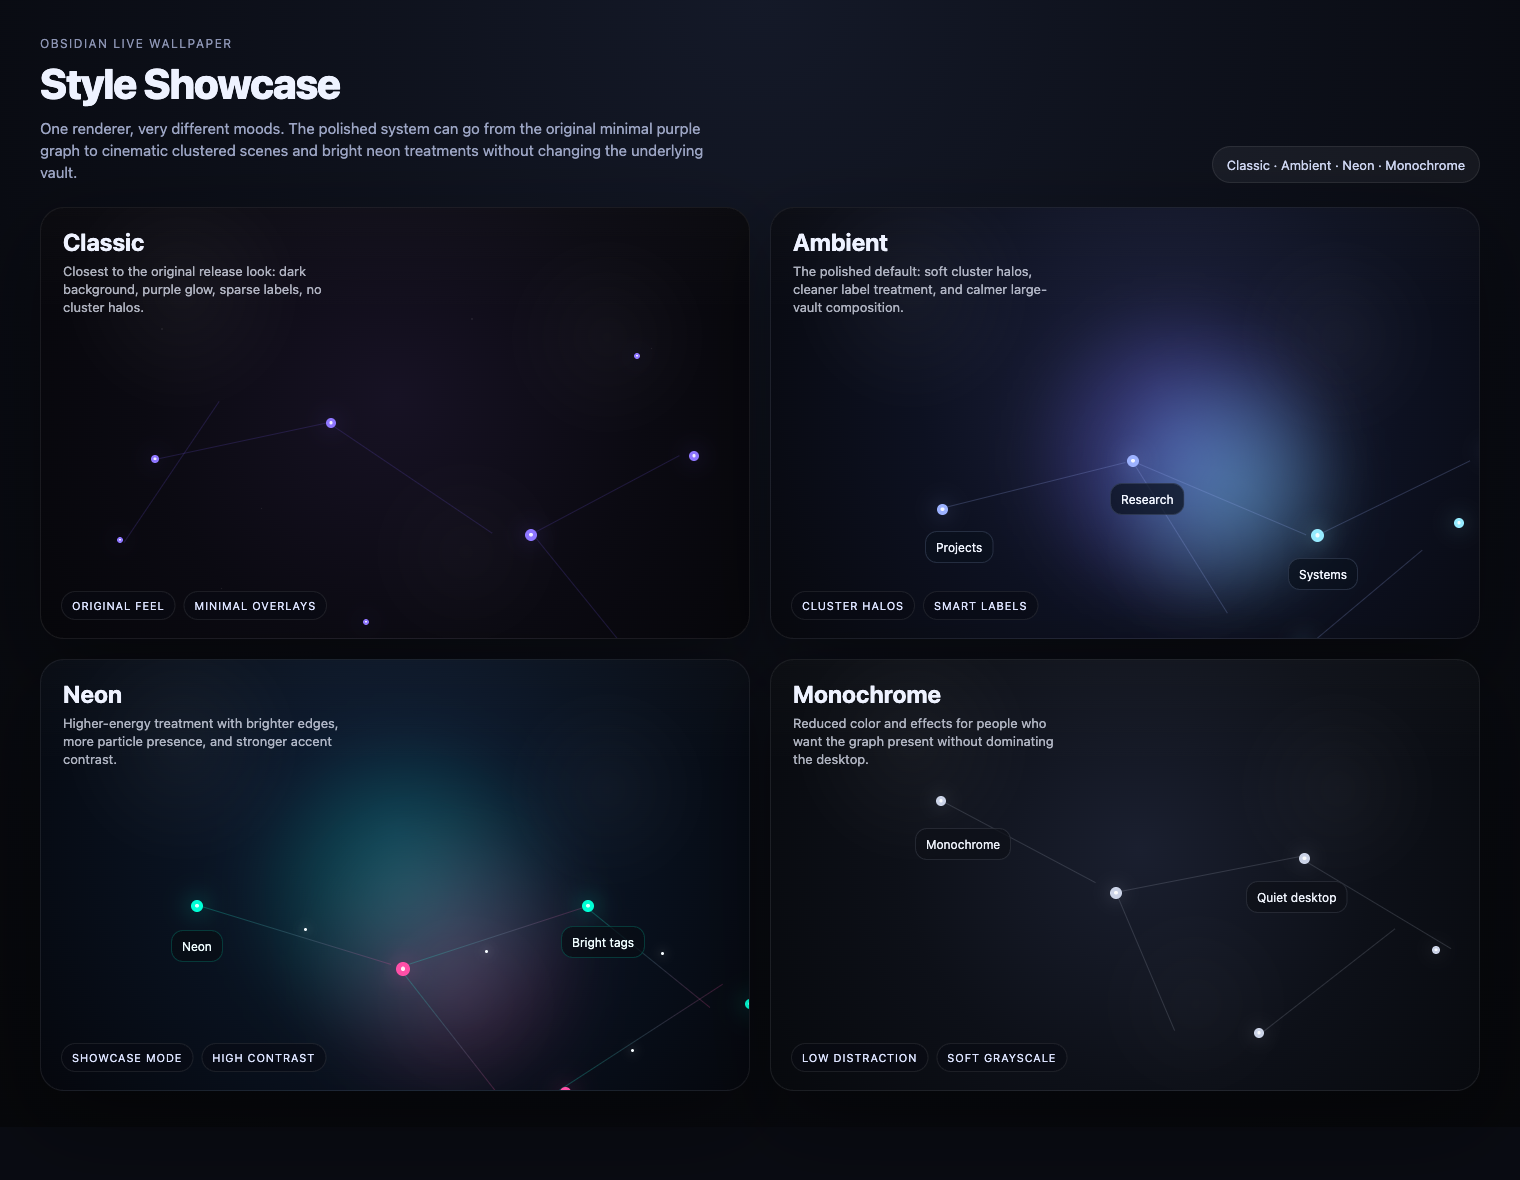
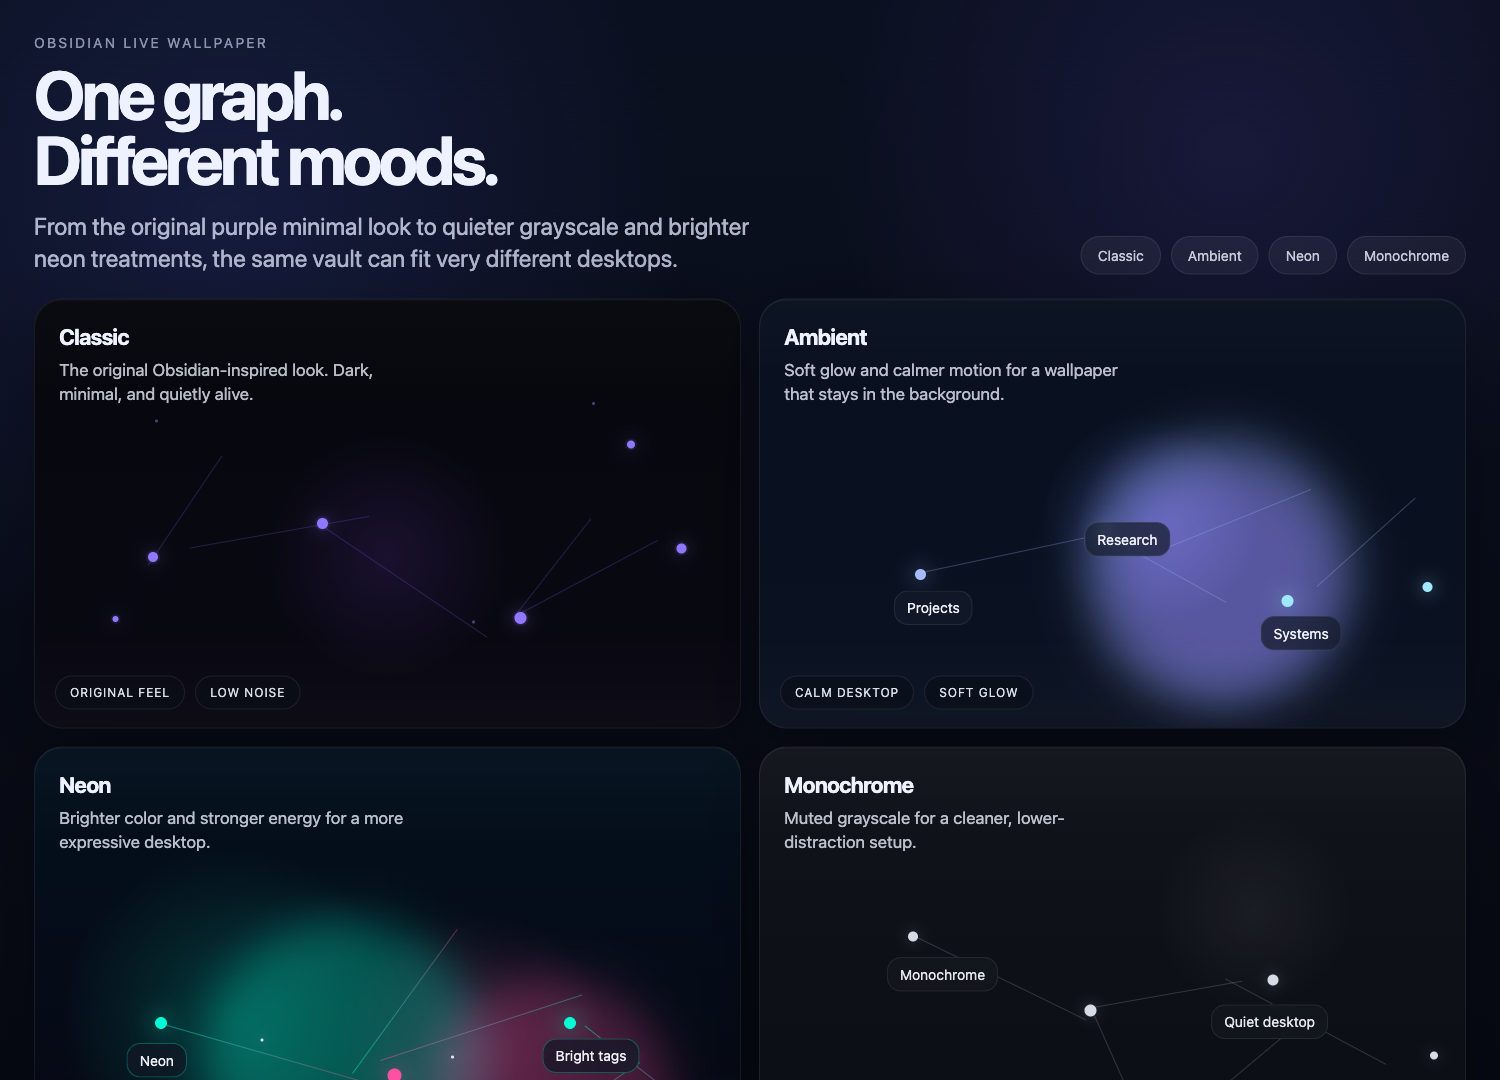
refactor: sharpen style showcase and classic preset

diff --git a/settings.html b/settings.html
@@ -208,7 +208,7 @@ const PRESETS = [
     name: 'Classic',
     accent: '#7c5cff',
     background: '#0a0a0f',
-    config: { accent: '#7c5cff', background: '#0a0a0f', linkOpacity: 0.18, nodeGlow: true, particles: true, particleSpeed: 1, particleDensity: 0.3, motionMode: 'light', clusterByTag: true, clusterHalos: false, backgroundGradient: true, hubLabels: false, hubLabelCount: 5, labelMinImportance: 0.22, depthOfField: true, noteFlare: true, autoScaleLargeVaults: false }
+    config: { accent: '#7c5cff', background: '#0a0a0f', linkOpacity: 0.18, nodeGlow: true, particles: false, particleSpeed: 0.8, particleDensity: 0.12, motionMode: 'light', clusterByTag: false, clusterHalos: false, backgroundGradient: false, hubLabels: false, hubLabelCount: 4, labelMinImportance: 0.32, depthOfField: false, noteFlare: false, autoScaleLargeVaults: false }
   },
   {
     name: 'Minimal',
